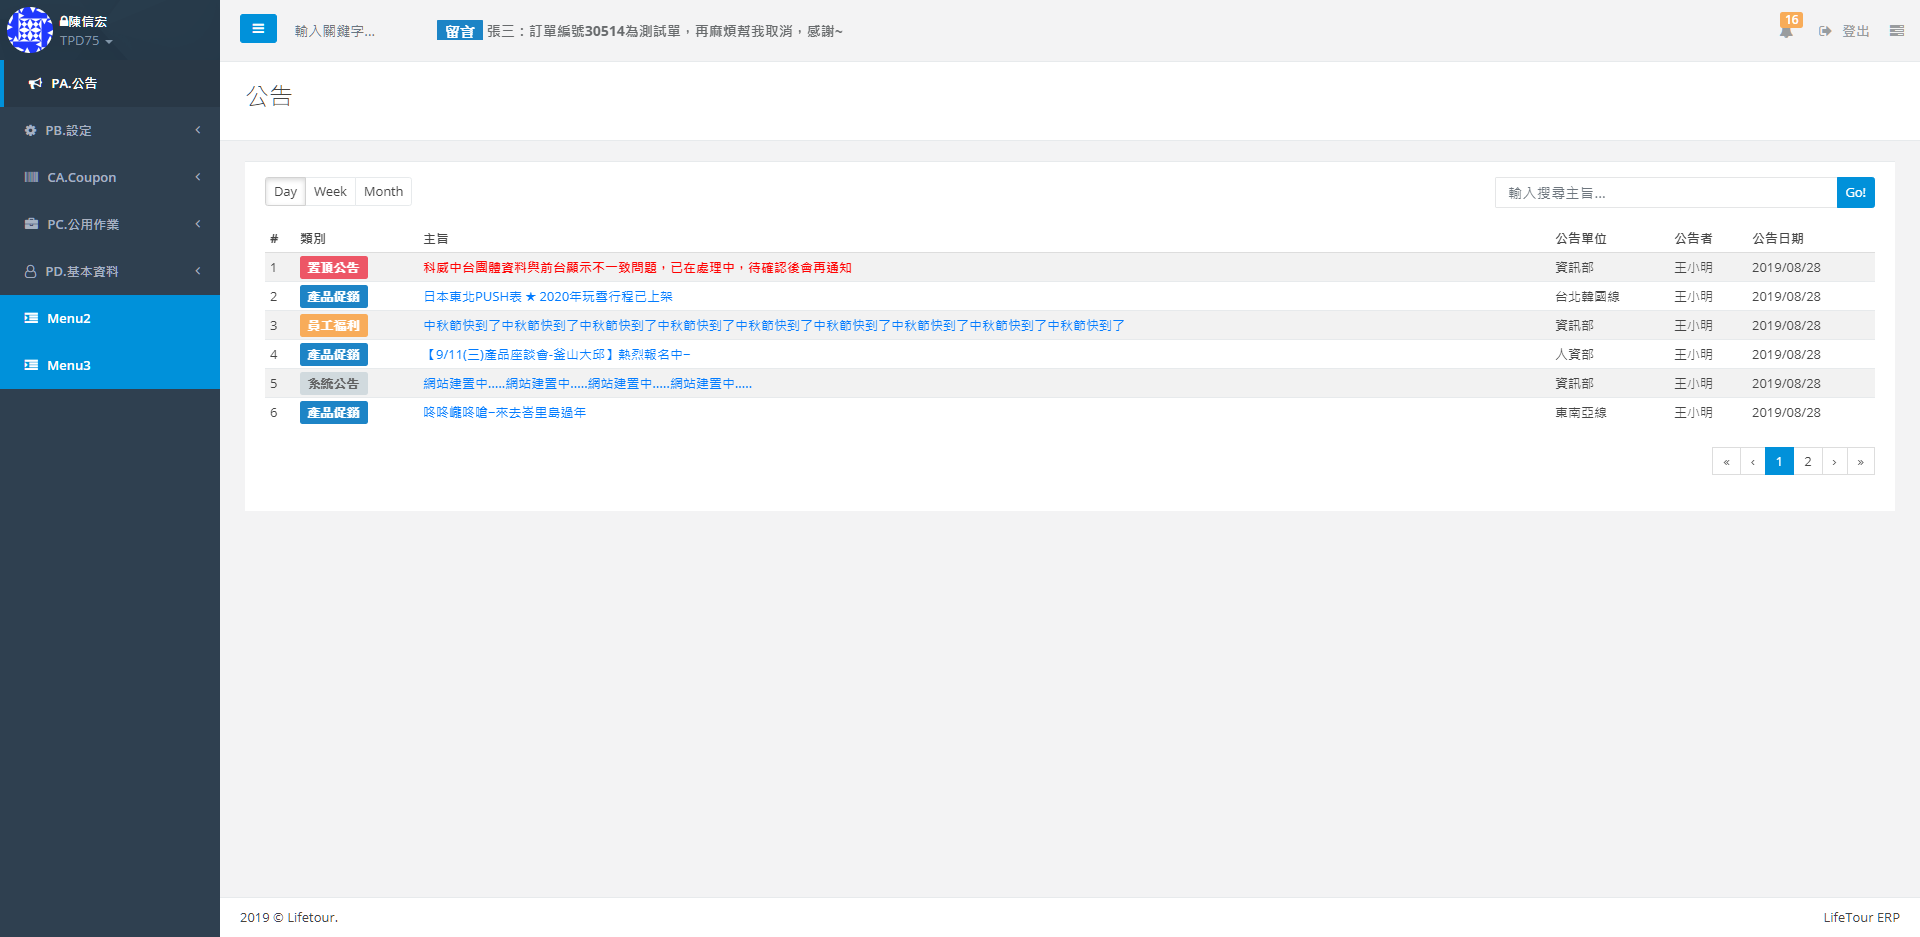
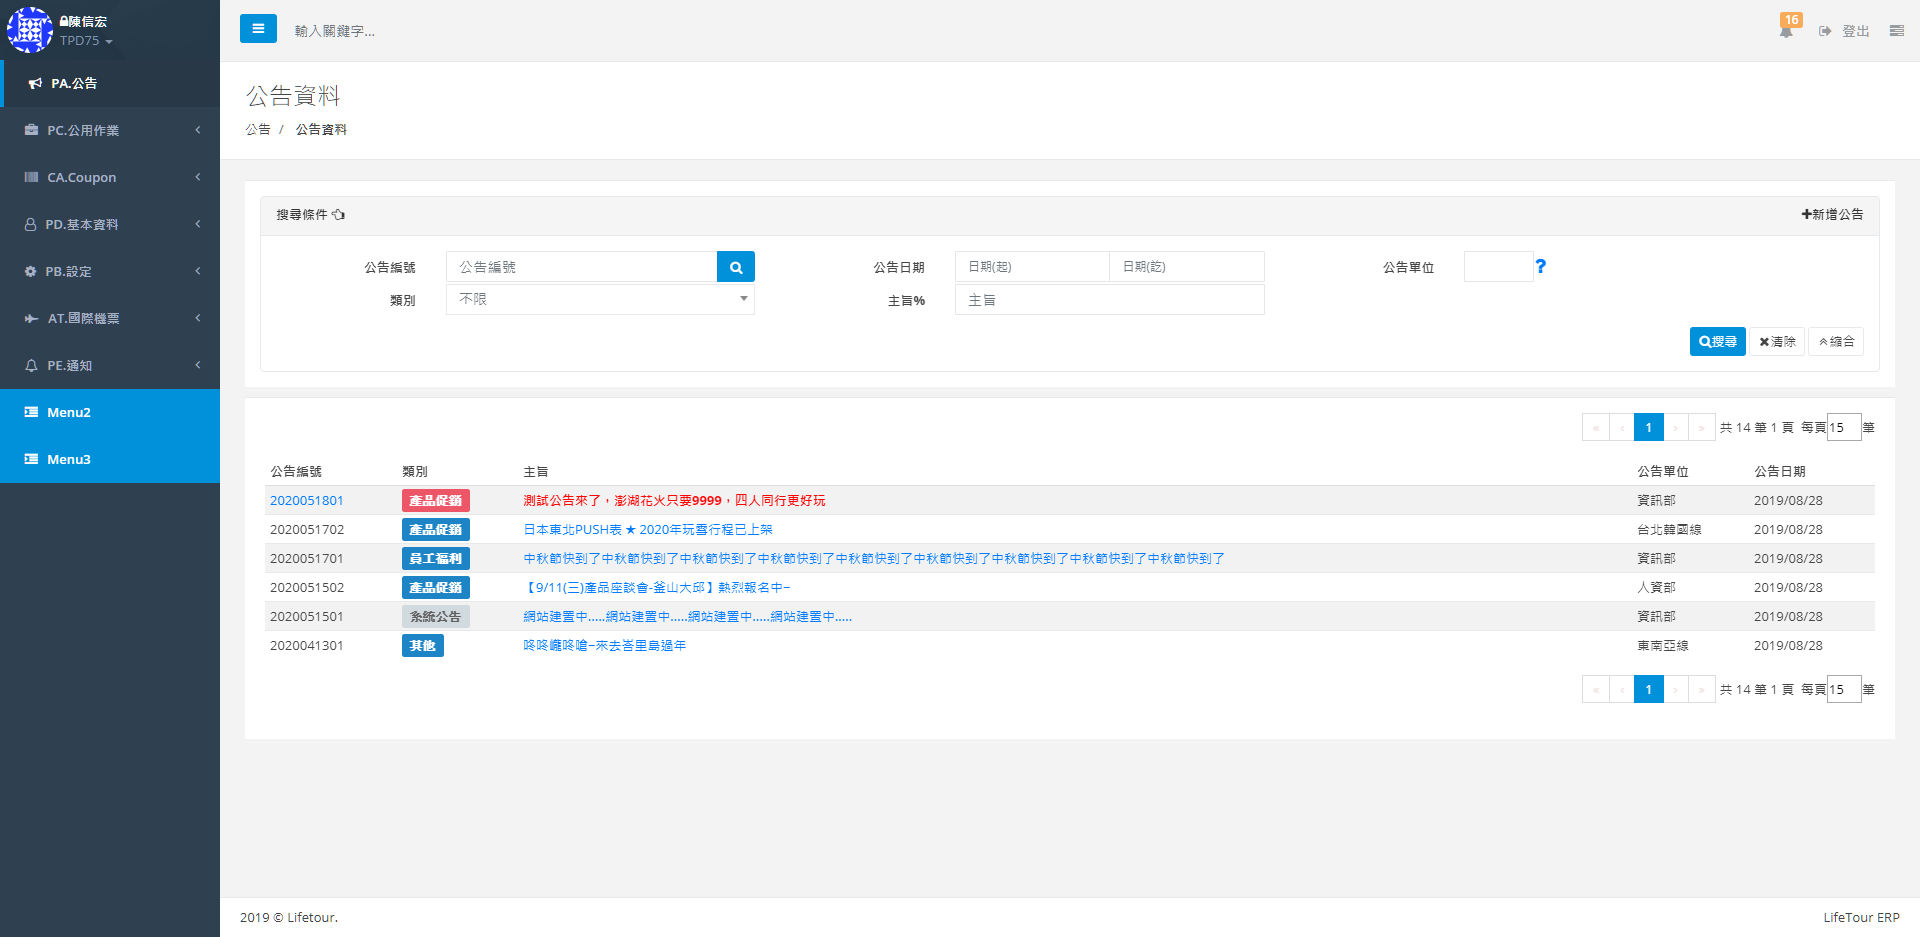
update

diff --git a/rweb/assets/js/worksdata.js b/rweb/assets/js/worksdata.js
@@ -11,9 +11,24 @@ var worksdata = {
             imgName: "lifetour-erp1-3.png"
         },
         {
-            caption: "五福ERP - 公告頁",
-            captionDesc: "發佈公告事項",
+            caption: "五福ERP - 公告列表",
+            captionDesc: "查詢公告列表資料",
             imgName: "lifetour-erp2.png"
+        },
+        {
+            caption: "五福ERP - 瀏覽公告內容",
+            captionDesc: "瀏覽公告內容",
+            imgName: "lifetour-erp2-2.png"
+        },
+        {
+            caption: "五福ERP - 新修公告1",
+            captionDesc: "新修公告1",
+            imgName: "lifetour-erp2-3.png"
+        },
+        {
+            caption: "五福ERP - 新修公告2",
+            captionDesc: "新修公告2",
+            imgName: "lifetour-erp2-4.png"
         },
         {
             caption: "五福ERP - 左側選單排序功能",
@@ -89,12 +104,56 @@ var worksdata = {
             caption: "五福ERP - 驗收服務明細-評分",
             captionDesc: "驗收服務明細-評分",
             imgName: "lifetour-erp17.png"
+        },
+        {
+            caption: "五福ERP - 折價券列表資料",
+            captionDesc: "查詢折價券列表資料",
+            imgName: "lifetour-erp18.png"
+        },
+        {
+            caption: "五福ERP - 折價券列表資料(小尺寸)",
+            captionDesc: "查詢折價券列表資料",
+            imgName: "lifetour-erp19.png"
+        },
+        {
+            caption: "五福ERP - 新修折價券資料",
+            captionDesc: "新修折價券資料",
+            imgName: "lifetour-erp20.png"
+        },
+        {
+            caption: "五福ERP - 折價券處理1",
+            captionDesc: "折價券處理入庫",
+            imgName: "lifetour-erp21.png"
+        },
+        {
+            caption: "五福ERP - 折價券處理2",
+            captionDesc: "折價券處理領用",
+            imgName: "lifetour-erp22.png"
+        },
+        {
+            caption: "五福ERP - 折價券處理3",
+            captionDesc: "折價券處理核銷",
+            imgName: "lifetour-erp23.png"
+        },
+        {
+            caption: "五福ERP - 折價券處理4",
+            captionDesc: "折價券處理回收",
+            imgName: "lifetour-erp24.png"
+        },
+        {
+            caption: "五福ERP - 折價券報表",
+            captionDesc: "折價券報表",
+            imgName: "lifetour-erp25.png"
         }
     ]
     ,lifetour:[{
         caption: "五福旅遊網 - 搜尋結果頁2",
         captionDesc: "顯示產品列表、搜尋、進階篩選等功能",
         imgName: "lifetour2.png"
+    },{
+        caption: "五福旅遊網 - 搜尋結果頁3",
+        captionDesc: "顯示產品列表、搜尋、進階篩選等功能",
+        imgName: "lifetour2-2.png"
     },{
         caption: "五福旅遊網 - 搜尋結果頁3(手機版)",
         captionDesc: "顯示產品列表、搜尋、進階篩選等功能",
